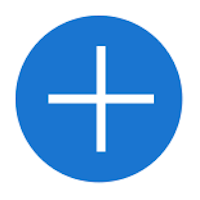
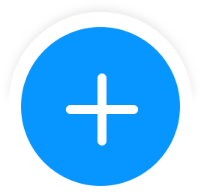
tabbar发布图片更新

diff --git a/app/components/TabBarItem.js b/app/components/TabBarItem.js
@@ -16,14 +16,14 @@ export default class TabBarItem extends Component {
                            bottom: Platform.OS === 'ios' ? 5 : -3,
                            width: radius,
                            height:radius,
-                           shadowColor: '#000',
-                           shadowOffset: {
-                               width: 0,
-                               height: -1
-                           },
-                           // shadowRadius: 10,
-                           shadowOpacity: 0.1,
-                           elevation: 4,
+                           // shadowColor: '#000',
+                           // shadowOffset: {
+                           //     width: 0,
+                           //     height: -1
+                           // },
+                           // // shadowRadius: 10,
+                           // shadowOpacity: 0.1,
+                           // // elevation: -4,
                        }
                    :
                        { tintColor:this.props.tintColor, width:radius, height:radius}}

diff --git a/app/pages/MainTab.js b/app/pages/MainTab.js
@@ -105,8 +105,8 @@ const MainTabNavigator = TabNavigator(
                 backgroundColor: '#fff',
                 height: 50,
                 overflow: 'visible',
-                borderTopWidth: 0,
-                // borderTopColor: "#00000010",
+                borderTopWidth: 1,
+                borderTopColor: "#00000010",
                 shadowColor: '#000',
                 shadowOffset: {
                     width: 0,
@@ -114,7 +114,7 @@ const MainTabNavigator = TabNavigator(
                 },
                 // shadowRadius: 10,
                 shadowOpacity: 0.1,
-                elevation: 4,
+                elevation: -4,
             },
             //tabImage的父容器
             tabStyle: {
